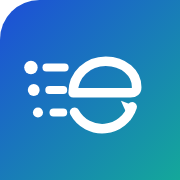
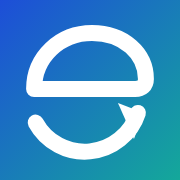
Let the mark be big enough to read
Two sizing mistakes, both mine.

The nav mark was 38px beside a two-line wordmark that is taller than it, so
the logo read as an afterthought next to its own name. It is 46px now, and
40px rather than 32px on mobile — the mobile shrink was buying nav height at
the expense of the one element identifying the site on a screen with room for
nothing else. The nav is 106px on a phone, two pixels more than before.

The favicon was worse. It was the full mark on a rounded gradient plate, which
spent most of a 16px canvas on a background and left the "e" about nine pixels
tall — a blue smudge in a tab rather than a letter. draftproof's favicon takes
the opposite approach, its mark running edge to edge, and this now does the
same: no plate, and the "e" scaled to fill the canvas. Checked at 16, 32, 48
and 64px against both a light and a dark tab bar; the blue-to-teal gradient
carries against both, which white-on-a-plate only ever did against the plate.

The three speed lines are dropped from the icon. At 16px they are sub-pixel
dots that turn to mud, and the bowl and circular arrow are what make the mark
recognisable. The full mark is unchanged everywhere else.

apple-touch-icon.png needs the opposite treatment and now has its own source,
design/apple-icon.svg: iOS ignores transparency on a home-screen icon and
composites onto a background of its own, so the plate-less mark would arrive
as a gradient "e" on black. Its plate is square, too — iOS rounds the corners
[…]

Changed region(s): [[0.1111, 0.1389, 0.8611, 0.8889], [0.0, 0.0, 0.2222, 0.2222]]

diff --git a/frontend/app/globals.css b/frontend/app/globals.css
@@ -136,7 +136,7 @@ h3 { font-size: 1.125rem; letter-spacing: -0.01em; font-weight: 650; }
   white-space: nowrap;
 }
 
-.brand { display: flex; align-items: center; gap: 10px; min-height: 44px; }
+.brand { display: flex; align-items: center; gap: 11px; min-height: 46px; }
 .brand-name { font-size: 1.125rem; font-weight: 700; letter-spacing: -0.02em; }
 .brand-tag {
   display: block;
@@ -409,8 +409,9 @@ footer { border-top: 1px solid var(--line); padding: 40px 0; color: var(--ink-50
   .nav-auth { margin-left: auto; min-height: 0; }
   .nav-auth .btn { padding: 9px 16px; }
   /* Two rows of nav eat a real share of an 844px-tall screen, so the mark
-     shrinks to buy the link strip its height back. */
-  .brand svg { width: 32px; height: 32px; }
+     gives back a little — but only a little: it is the one thing identifying
+     the site on a screen with no room for anything else. */
+  .brand svg { width: 40px; height: 40px; }
   .nav-links {
     order: 3; flex-basis: 100%; margin-left: 0; gap: 20px;
     overflow-x: auto; overscroll-behavior-x: contain;

diff --git a/frontend/app/site-nav.tsx b/frontend/app/site-nav.tsx
@@ -54,7 +54,7 @@ export function SiteNav({ sectionLinks = false }: { sectionLinks?: boolean }) {
     <nav className="nav">
       <div className="nav-inner">
         <a className="brand" href={LANDING_PATH}>
-          <Logo size={38} />
+          <Logo size={46} />
           <span>
             <span className="brand-name">
               express<span className="gradient-text">automate</span>.app
